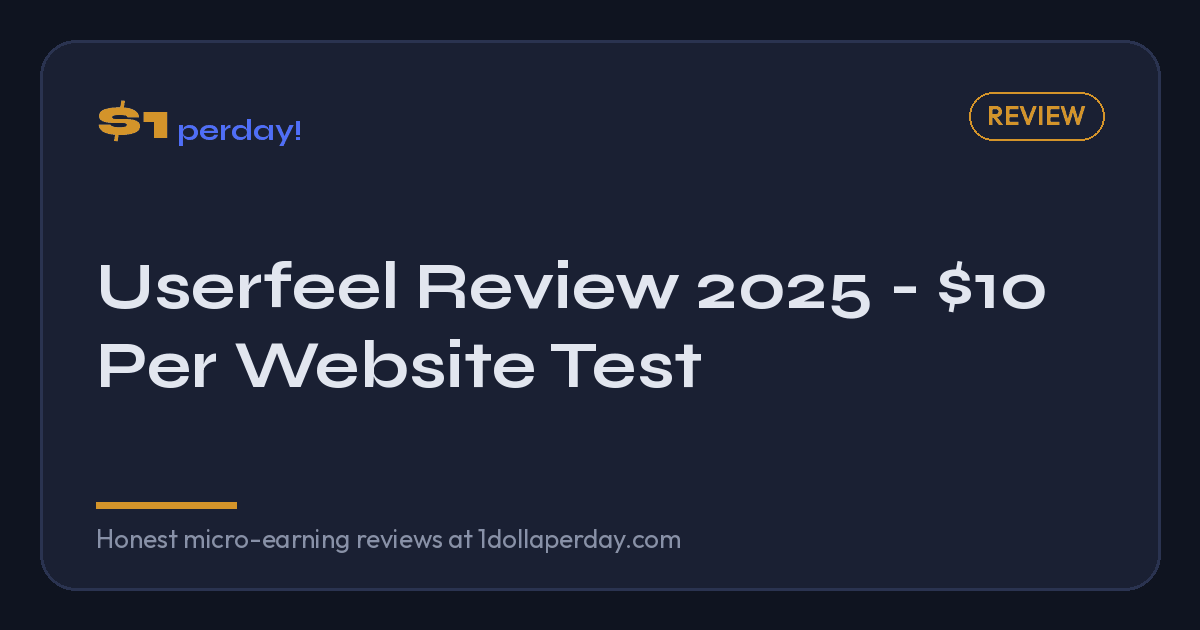
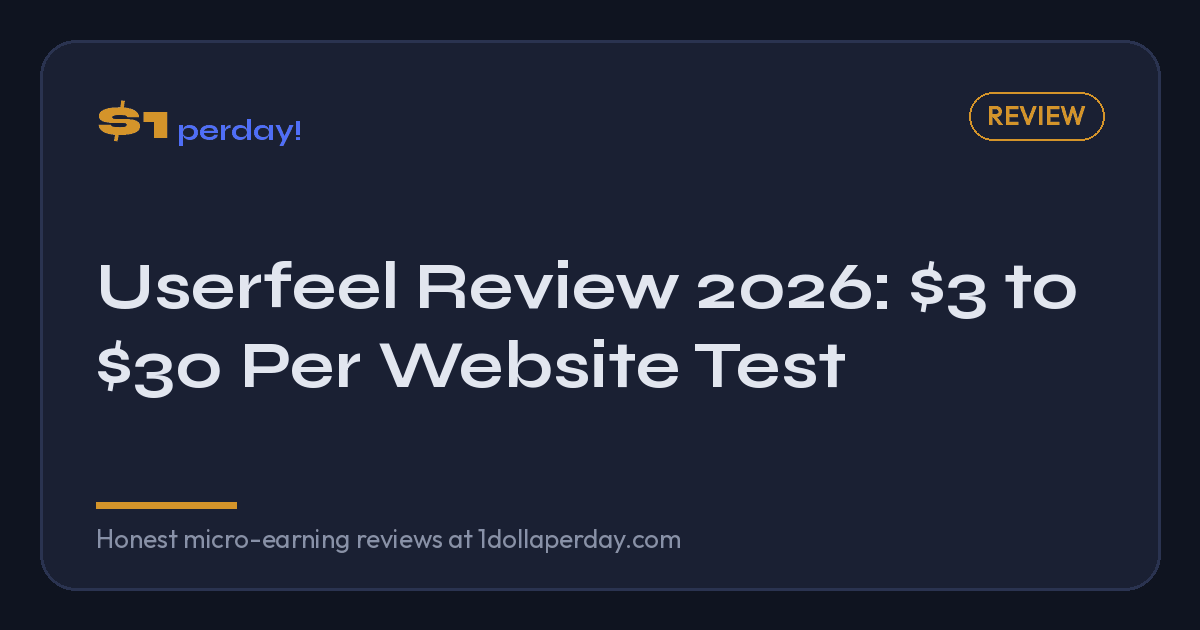
Correct Userfeel review against its tester FAQ: pay by test length, unpaid qualification, PayPal or bank transfer, no unsourced hourly/monthly claims

Changed region(s): [[0.0617, 0.5429, 0.7092, 0.6333], [0.6783, 0.4222, 0.8942, 0.5127]]

diff --git a/reviews/userfeel.html b/reviews/userfeel.html
@@ -19,24 +19,24 @@
     <meta charset="UTF-8">
     <meta name="viewport" content="width=device-width, initial-scale=1.0">
 
-    <title>Userfeel Review 2025 - $10 Per Website Test | $1perday!</title>
-    <meta name="description" content="Honest Userfeel review 2025. Get paid $10 per website usability test. Similar to UserTesting. Is it legit?">
-    <meta name="keywords" content="Userfeel review, Userfeel legit, website testing jobs, Userfeel payment, usability testing 2025">
+    <title>Userfeel Review 2026: $3 to $30 Per Website Test | $1perday!</title>
+    <meta name="description" content="Userfeel pays $3 to $30 per usability test depending on length, after an unpaid qualification test. Payouts via PayPal or bank transfer. Pay, timing and catches, checked.">
+    <meta name="keywords" content="Userfeel review, Userfeel legit, website testing jobs, Userfeel payment, usability testing 2026">
 
     <link rel="canonical" href="https://1dollaperday.com/reviews/userfeel">
 
-    <meta property="og:title" content="Userfeel Review 2025 - $10 Per Website Test">
-    <meta property="og:description" content="Userfeel pays $10 per website usability test. Full review of this UserTesting alternative.">
+    <meta property="og:title" content="Userfeel Review 2026: $3 to $30 Per Website Test">
+    <meta property="og:description" content="Userfeel pays $3 to $30 per usability test depending on length. Pay, payout timing and the catches, checked against its tester FAQ.">
     <meta property="og:type" content="article">
     <meta property="og:url" content="https://1dollaperday.com/reviews/userfeel">
     <meta property="og:site_name" content="$1perday!">
     <meta property="og:image" content="https://1dollaperday.com/assets/og/reviews--userfeel.png">
     <meta property="og:image:width" content="1200">
     <meta property="og:image:height" content="630">
-    <meta property="og:image:alt" content="Userfeel Review 2025 - $10 Per Website Test">
+    <meta property="og:image:alt" content="Userfeel Review 2026: $3 to $30 Per Website Test">
     <meta name="twitter:card" content="summary_large_image">
-    <meta name="twitter:title" content="Userfeel Review 2025 - $10 Per Website Test">
-    <meta name="twitter:description" content="Userfeel pays $10 per website usability test. Full review of this UserTesting alternative.">
+    <meta name="twitter:title" content="Userfeel Review 2026: $3 to $30 Per Website Test">
+    <meta name="twitter:description" content="Userfeel pays $3 to $30 per usability test depending on length. Pay, payout timing and the catches, checked against its tester FAQ.">
     <meta name="twitter:image" content="https://1dollaperday.com/assets/og/reviews--userfeel.png">
 
     <link rel="preconnect" href="https://fonts.googleapis.com">
@@ -56,9 +56,9 @@
         "itemReviewed": {"@type": "WebSite", "name": "Userfeel", "url": "https://userfeel.com"},
         "author": {"@type": "Organization", "name": "$1perday!"},
         "reviewRating": {"@type": "Rating", "ratingValue": "8.0", "bestRating": "10", "worstRating": "1"},
-        "reviewBody": "Userfeel pays $10 per usability test, similar to UserTesting. A solid platform for website testers.",
+        "reviewBody": "Userfeel pays $3 to $30 per usability test depending on length, after an unpaid qualification test. Test volume is not guaranteed.",
         "datePublished": "2025-01-01",
-        "dateModified": "2026-02-03",
+        "dateModified": "2026-10-23",
         "publisher": {"@type": "Organization", "name": "$1perday!"}
     }
     </script>
@@ -114,7 +114,7 @@
             <article class="article">
                 <header class="review-header">
                     <div class="review-title-section">
-                        <span class="last-updated">Updated January 2025</span>
+                        <span class="last-updated">Updated October 2026</span>
                         <h1>Userfeel Review</h1>
                         <p class="article-meta">Category: Website Testing</p>
                     </div>
@@ -129,7 +129,7 @@
 
                 <div class="article-content">
                     <div class="quick-answer" id="quick-answer">
-                        <p>Userfeel is a legitimate usability testing platform paying $10 per test for recording yourself using websites and apps. Tests take 15–20 minutes. Availability is lower than UserTesting but the per-test rate is comparable. Rating: 8.0/10 — a solid UserTesting alternative for supplemental testing income.</p>
+                        <p>Userfeel is a legitimate usability testing platform that pays you to record yourself using websites and apps while thinking aloud. Pay depends on test length: $3 for 5 minutes, $10 for 20 minutes (the most common), $20 for 40 minutes and $30 for 60 minutes. You must first pass an unpaid qualification test, and Userfeel itself says there is no guaranteed number of tests. Rating: 8.0/10 as a supplement to other testing panels.</p>
                     </div>
 
                     <div class="quick-facts">
@@ -141,15 +141,15 @@
                             </div>
                             <div class="quick-fact">
                                 <span class="quick-fact-label">Pay Per Test</span>
-                                <span class="quick-fact-value">$10</span>
+                                <span class="quick-fact-value">$3 to $30 (by length)</span>
                             </div>
                             <div class="quick-fact">
                                 <span class="quick-fact-label">Payment Methods</span>
-                                <span class="quick-fact-value">PayPal, Payoneer</span>
+                                <span class="quick-fact-value">PayPal, bank transfer (some countries)</span>
                             </div>
                             <div class="quick-fact">
                                 <span class="quick-fact-label">Test Length</span>
-                                <span class="quick-fact-value">10-20 minutes</span>
+                                <span class="quick-fact-value">5 to 60 minutes</span>
                             </div>
                             <div class="quick-fact">
                                 <span class="quick-fact-label">Available</span>
@@ -170,9 +170,9 @@
                         <h2>What is Userfeel?</h2>
                         <p>Userfeel is a usability testing platform where you get paid to test websites and apps while providing feedback. Companies pay Userfeel to find real users who can test their products and provide honest opinions - and you can be one of those testers.</p>
 
-                        <p>Similar to UserTesting, Userfeel pays $10 for tests that typically take 10-20 minutes. You'll navigate websites, complete tasks, and speak your thoughts out loud while screen recording software captures your experience.</p>
+                        <p>The most common Userfeel test takes about 20 minutes and pays $10. Shorter and longer tests pay proportionally. You'll navigate websites, complete tasks, and speak your thoughts out loud while screen recording software captures your experience. Tests are in your native language, and sometimes in another language you list as fluent.</p>
 
-                        <p>Userfeel has been operating since 2010 and is a legitimate alternative to UserTesting, especially useful since UserTesting doesn't accept testers from all countries.</p>
+                        <p>Userfeel is a long-running alternative to UserTesting and a sensible second panel to join, since no single testing site sends enough tests on its own.</p>
                     </section>
 
                     <div class="ad-placeholder banner"></div>
@@ -181,11 +181,11 @@
                         <h2>How Userfeel Works</h2>
                         <ol>
                             <li><strong>Sign up</strong> and create your tester profile</li>
-                            <li><strong>Complete a qualification test</strong> to show your testing abilities</li>
+                            <li><strong>Complete a qualification test</strong> to show your testing abilities (unpaid, and you may need more than one attempt)</li>
                             <li><strong>Receive test invitations</strong> via email</li>
                             <li><strong>Complete tests</strong> - record yourself using websites/apps</li>
                             <li><strong>Get rated</strong> by clients on your feedback quality</li>
-                            <li><strong>Receive $10</strong> per approved test via PayPal/Payoneer</li>
+                            <li><strong>Get paid</strong> to your Userfeel wallet about a week after approval, then withdraw to PayPal or bank transfer</li>
                         </ol>
 
                         <h3>What Tests Involve</h3>
@@ -200,7 +200,7 @@
                         <div class="info-box neutral">
                             <p class="info-box-title">Equipment Needed</p>
                             <ul>
-                                <li>Computer or smartphone (depending on test)</li>
+                                <li>Windows 10+ or Mac computer, phone or tablet (depending on test)</li>
                                 <li>Microphone (for voice recording)</li>
                                 <li>Stable internet connection</li>
                                 <li>Quiet environment</li>
@@ -210,7 +210,7 @@
 
                     <section>
                         <h2>Realistic Earnings</h2>
-                        <p>Userfeel test availability varies based on your demographics and tester rating.</p>
+                        <p>Userfeel pays a flat rate by test length. Availability varies with client demand and your tester rating. In Userfeel's own words: "You may get 5 tests a day, or you may get no tests for a year."</p>
 
                         <table>
                             <thead>
@@ -222,26 +222,31 @@
                             </thead>
                             <tbody>
                                 <tr>
-                                    <td>Standard website test</td>
-                                    <td>10-20 min</td>
+                                    <td>Short test</td>
+                                    <td>5 min</td>
+                                    <td>$3</td>
+                                </tr>
+                                <tr>
+                                    <td>Standard test (most common)</td>
+                                    <td>20 min</td>
                                     <td>$10</td>
                                 </tr>
                                 <tr>
-                                    <td>Mobile app test</td>
-                                    <td>10-20 min</td>
-                                    <td>$10</td>
+                                    <td>Long test</td>
+                                    <td>40 min</td>
+                                    <td>$20</td>
                                 </tr>
                                 <tr>
-                                    <td>Longer tests</td>
-                                    <td>20-30 min</td>
-                                    <td>$10-15</td>
+                                    <td>Extended test</td>
+                                    <td>60 min</td>
+                                    <td>$30</td>
                                 </tr>
                             </tbody>
                         </table>
 
-                        <p><strong>Monthly estimate:</strong> $20-100/month depending on test availability and your rating. High-rated testers get more opportunities.</p>
+                        <p><strong>Monthly estimate:</strong> Userfeel publishes no average and says test volume isn't guaranteed, so any monthly figure depends entirely on how many invitations you get. Higher-rated testers get more.</p>
 
-                        <p><strong>Effective hourly rate:</strong> $30-60/hour when tests are available (making it one of the highest-paying beermoney activities).</p>
+                        <p><strong>Effective hourly rate:</strong> about $30/hour while you are actually testing ($10 for 20 minutes), before counting the unpaid qualification test, setup and time spent waiting for invitations.</p>
                     </section>
 
                     <section>
@@ -250,9 +255,9 @@
                             <div class="pros">
                                 <h4>Pros</h4>
                                 <ul>
-                                    <li>$10 per 10-20 minute test (great hourly rate)</li>
-                                    <li>Worldwide availability</li>
-                                    <li>Multiple payment options</li>
+                                    <li>$10 for a standard 20-minute test, up to $30 for an hour</li>
+                                    <li>Tests in your native language</li>
+                                    <li>PayPal or bank transfer (bank transfer in some countries)</li>
                                     <li>Tests are interesting/varied</li>
                                     <li>Good UserTesting alternative</li>
                                 </ul>
@@ -260,9 +265,9 @@
                             <div class="cons">
                                 <h4>Cons</h4>
                                 <ul>
-                                    <li>Limited test availability</li>
+                                    <li>No guaranteed number of tests</li>
                                     <li>Strict quality requirements</li>
-                                    <li>Qualification test required</li>
+                                    <li>Unpaid qualification test required</li>
                                     <li>Tests can be rejected</li>
                                     <li>Need microphone and quiet space</li>
                                 </ul>
@@ -297,28 +302,23 @@
                             <tbody>
                                 <tr>
                                     <td>Pay Per Test</td>
-                                    <td>$10</td>
-                                    <td>$10+</td>
+                                    <td>$3 to $30 by length</td>
+                                    <td>Varies by test (shown in dashboard)</td>
                                 </tr>
                                 <tr>
-                                    <td>Test Duration</td>
-                                    <td>10-20 min</td>
-                                    <td>10-20 min</td>
+                                    <td>Qualification</td>
+                                    <td>Unpaid qualification test</td>
+                                    <td>Practice test</td>
                                 </tr>
                                 <tr>
-                                    <td>Availability</td>
-                                    <td>Worldwide</td>
-                                    <td>Limited countries</td>
-                                </tr>
-                                <tr>
-                                    <td>Test Volume</td>
-                                    <td>Lower</td>
-                                    <td>Higher</td>
+                                    <td>Payout Timing</td>
+                                    <td>About a week, to Userfeel wallet</td>
+                                    <td>Usually 14 days</td>
                                 </tr>
                                 <tr>
                                     <td>Payment</td>
-                                    <td>PayPal, Payoneer</td>
-                                    <td>PayPal</td>
+                                    <td>PayPal, bank transfer</td>
+                                    <td>PayPal only</td>
                                 </tr>
                             </tbody>
                         </table>
@@ -327,14 +327,14 @@
 
                     <section>
                         <h2>Payment Reliability</h2>
-                        <p>Userfeel has been paying testers reliably since 2010. Payment is processed after your test is reviewed and approved (usually within a few days).</p>
+                        <p>Payment is credited to your Userfeel wallet about a week after your test is approved. From the wallet you withdraw to PayPal, or by bank transfer in the countries that support it.</p>
 
                         <div class="info-box neutral">
                             <p class="info-box-title">Payout Details</p>
                             <ul>
-                                <li><strong>PayPal:</strong> $10 minimum (one test)</li>
-                                <li><strong>Payoneer:</strong> Available for international testers</li>
-                                <li><strong>Processing:</strong> 4-7 days after test approval</li>
+                                <li><strong>Wallet credit:</strong> about a week after approval</li>
+                                <li><strong>PayPal:</strong> withdraw from your wallet</li>
+                                <li><strong>Bank transfer:</strong> available in some countries only</li>
                             </ul>
                         </div>
                     </section>
@@ -345,7 +345,7 @@
                         <h2>Final Verdict</h2>
                         <div class="info-box success">
                             <p class="info-box-title">Verdict: Recommended</p>
-                            <p>Userfeel is a legitimate website testing platform with excellent pay rates ($30-60/hour effective). The main limitation is test availability - you won't get tests daily. Best used alongside UserTesting and Respondent for a diversified testing income.</p>
+                            <p>Userfeel is a legitimate website testing platform that pays about $30/hour while you are actually testing. The main limitation is test availability: Userfeel itself says you might get several tests a day or none for months. Best used alongside UserTesting, Userlytics and Respondent.</p>
                         </div>
 
                     </section>
@@ -354,6 +354,7 @@
                         <h2>Related Reviews</h2>
                         <ul>
                             <li><a href="usertesting">UserTesting Review</a> - Larger test volume</li>
+                            <li><a href="userlytics">Userlytics Review</a> - $10 to $50 per study, PayPal only</li>
                             <li><a href="respondent">Respondent Review</a> - Higher paying studies</li>
                             <li><a href="prolific">Prolific Review</a> - Academic research studies</li>
                         </ul>
@@ -381,6 +382,10 @@
 
             <aside class="sidebar">
                 <div class="ad-placeholder sidebar"></div>
+                <div class="sidebar-widget">
+                    <h3>Sources</h3>
+                    <p class="text-small">Pay, payout and requirements checked against the <a href="https://www.userfeel.com/tester-faq" target="_blank" rel="noopener nofollow">Userfeel tester FAQ</a> on 23 October 2026.</p>
+                </div>
                 <div class="sidebar-widget">
                     <h3>Similar Platforms</h3>
                     <ul>

diff --git a/reviews/index.html b/reviews/index.html
@@ -614,10 +614,10 @@
                                     <h3><a href="userfeel">Userfeel</a></h3>
                                     <span class="rating-badge recommended">Recommended</span>
                                 </div>
-                                <p class="review-card-summary">$10 per website usability test. Great UserTesting alternative with worldwide availability.</p>
+                                <p class="review-card-summary">$3 to $30 per usability test by length ($10 for the common 20-minute test). Unpaid qualification test first; no guaranteed test volume.</p>
                                 <div class="review-card-meta">
-                                    <span>Pay: $10/test</span>
-                                    <span>Payment: PayPal, Payoneer</span>
+                                    <span>Pay: $3 to $30/test</span>
+                                    <span>Payment: PayPal, bank transfer</span>
                                 </div>
                                 <a href="userfeel" class="review-card-link">Read Full Review &rarr;</a>
                             </div>
